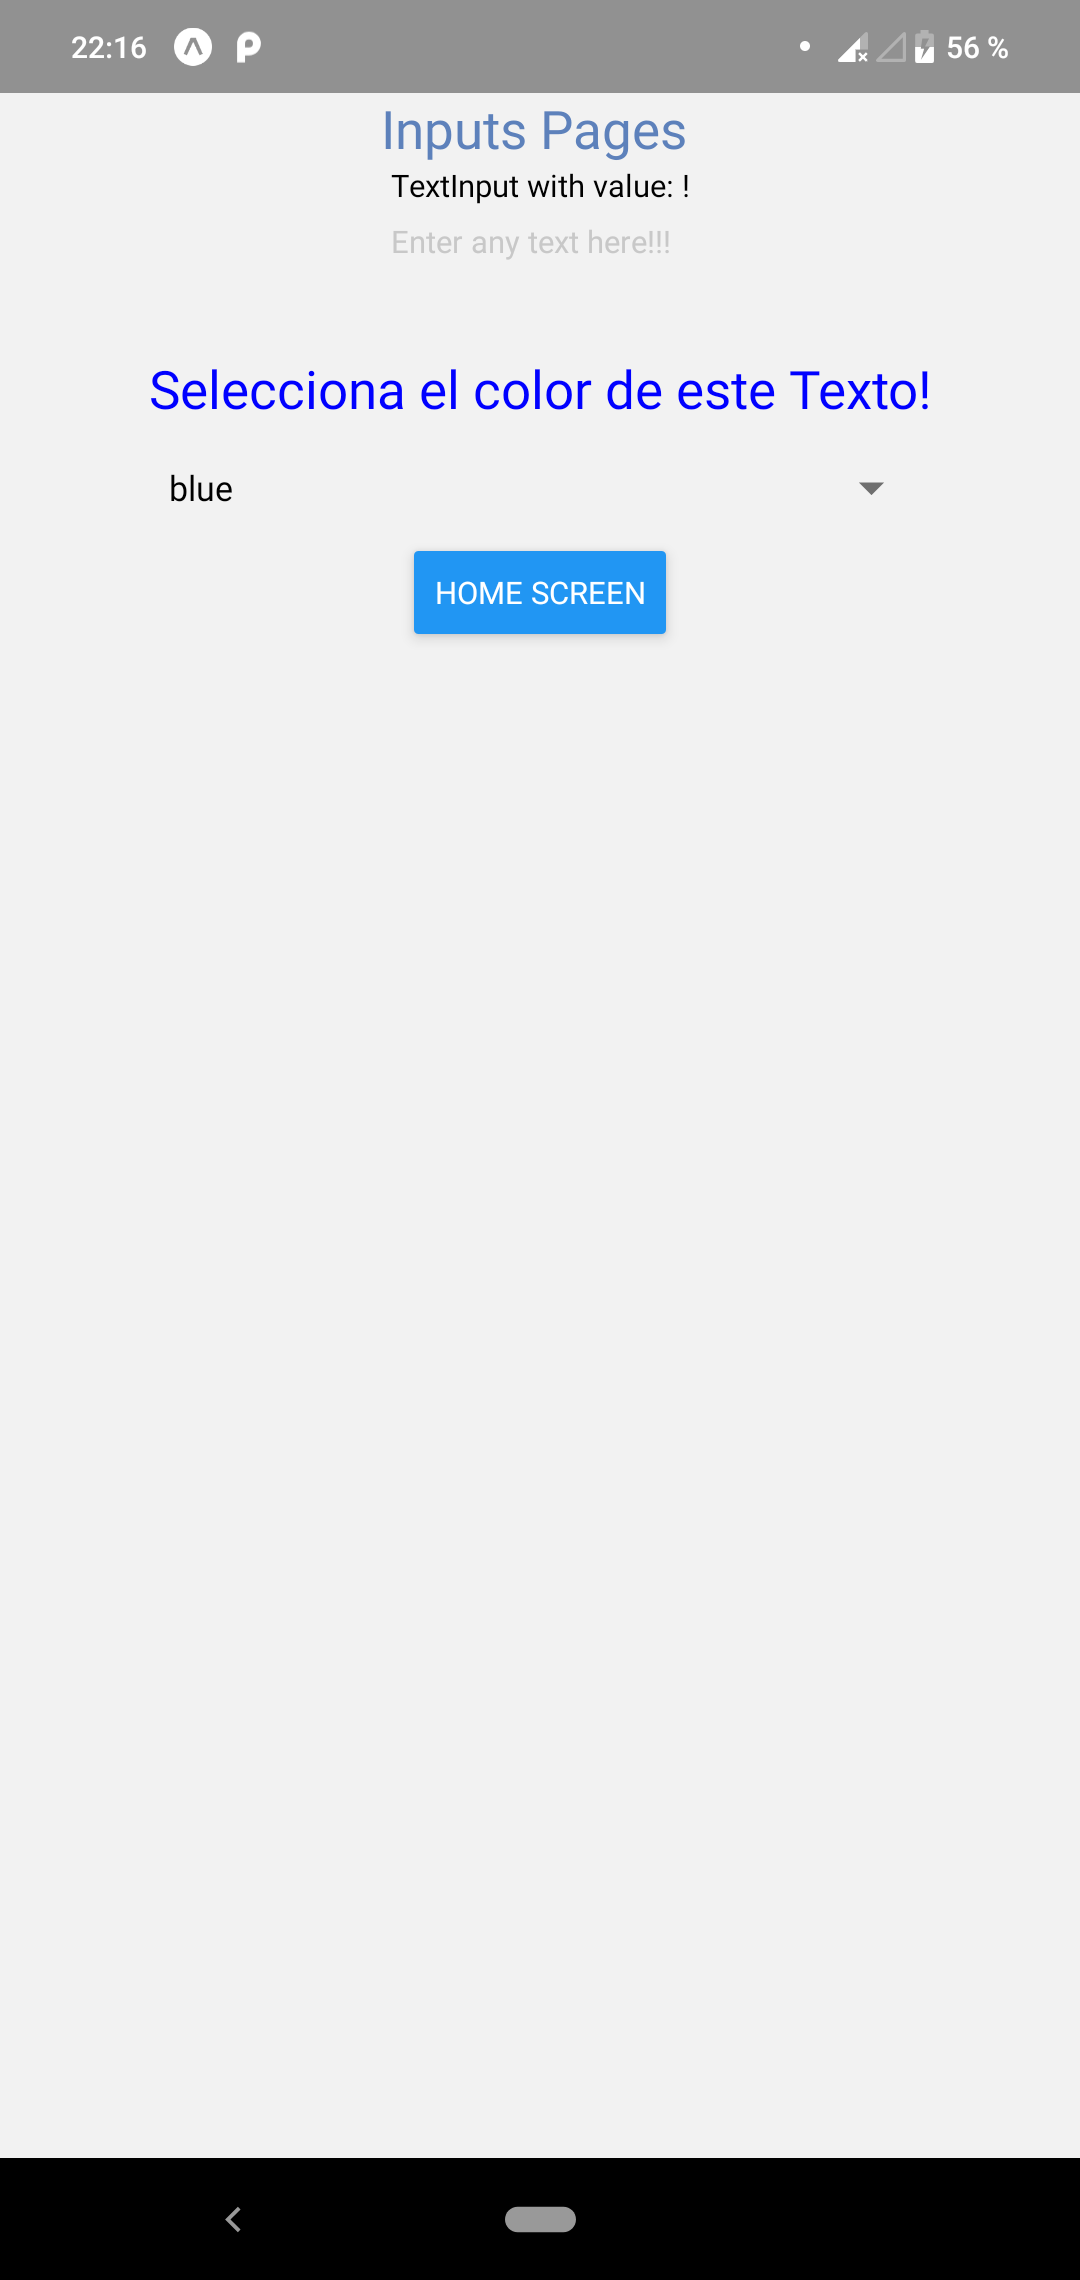
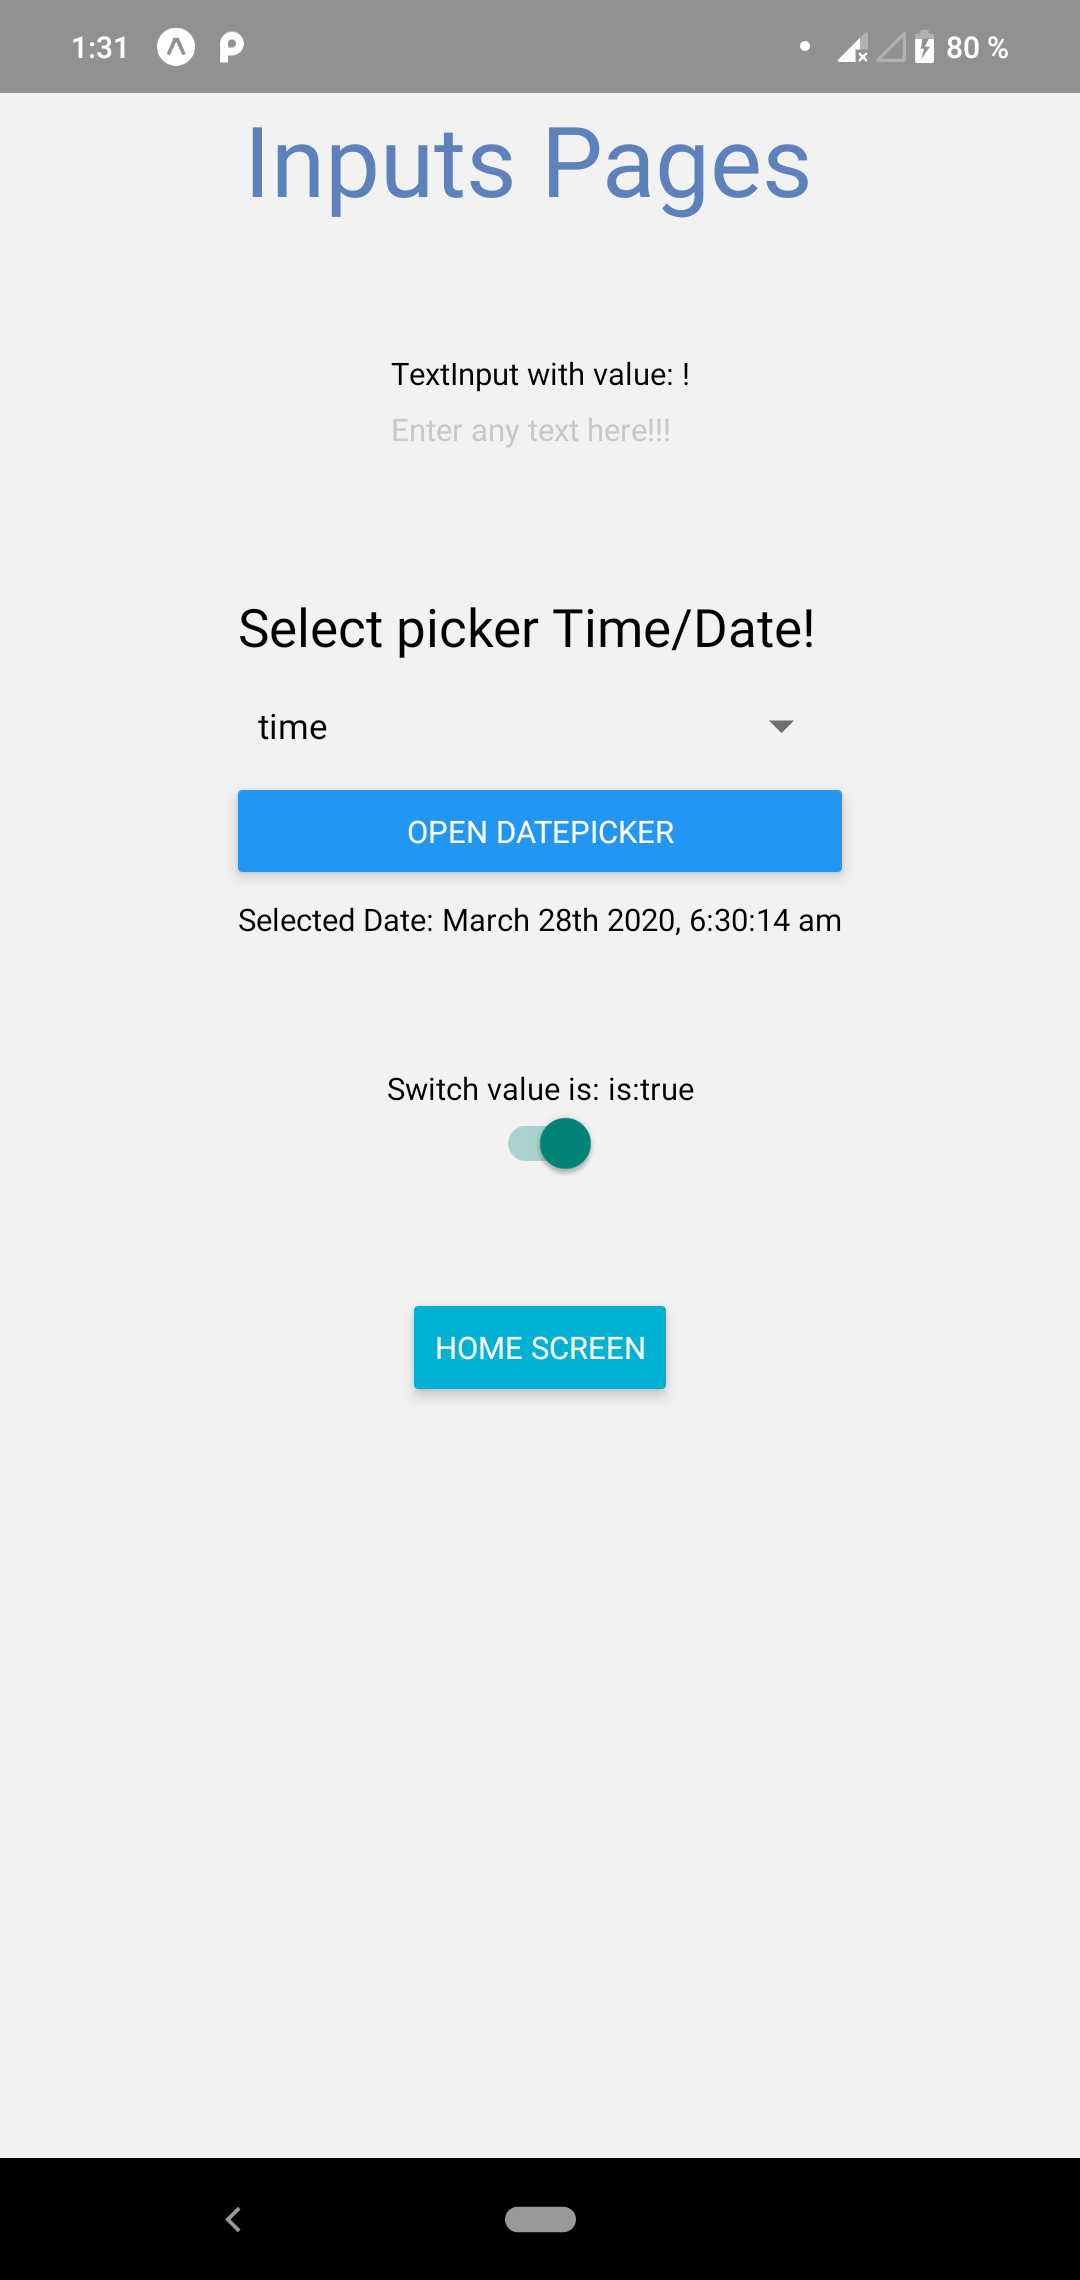
add date and time pickers

diff --git a/src/partials/PickersComponent.js b/src/partials/PickersComponent.js
@@ -1,20 +1,48 @@
 import React, { useState } from 'react'
-import { View, Text, Picker } from "react-native"
+import { View, Text, Picker, Button } from "react-native"
+import moment from 'moment'
 
-const avaliableColors = [
-    "red",
-    "green",
-    "blue"
+import DateTimePicker from '@react-native-community/datetimepicker'
+
+import Box from './Box'
+
+const modes = [
+    'date',
+    'time',
+    //'datetime',
+    //'countdown'
 ]
 
 const PickersComponent = () => {
-    const [textColor, changeColor] = useState("blue")
+    const [date, setDate] = useState(new Date());
+    const [show, setShow] = useState(false)
+    const [mode, setMode] = useState('date');
+
     return <View>
-        <Text style={{ color: textColor,fontSize:24.0 }}>Selecciona el color de este Texto!</Text>
-        <Picker selectedValue={textColor}
-            onValueChange={(c) => changeColor(c)}>
-            {avaliableColors.map((c, k) => <Picker.Item key={k} label={c} value={c} />)}
+        <Text style={{ fontSize: 24.0 }}>Select picker Time/Date!</Text>
+        <Picker selectedValue={mode}
+            onValueChange={(c) => setMode(c)}>
+            {modes.map((c, k) => <Picker.Item key={k} label={c} value={c} />)}
         </Picker>
+        <Button title="Open DatePicker" onPress={() => setShow(!show)} />
+        <Box height={10} />
+        {
+            show && <DateTimePicker
+                timeZoneOffsetInMinutes={0}
+                value={date}
+                mode={mode}
+                is24Hour={true}
+                display="default"
+                onChange={(val, sel) => {
+                    if (sel) {
+                        setDate(sel)
+                    }
+                    setShow(false)
+                }}
+            />
+        }
+        <Text>Selected Date: {moment(date).format("MMMM Do YYYY, h:mm:ss a")}</Text>
+
 
     </View>
 }

diff --git a/src/screens/InputsScreen.js b/src/screens/InputsScreen.js
@@ -13,15 +13,16 @@ import { Switch, } from 'react-native-gesture-handler'
 const InputsScreen = ({ navigation }) => {
     const [enabledButton, toggleButton] = useState(true)
     return <SafeArea style={GlobalStyles.notchSafeArea}>
-        <Text style={GlobalStyles.navTitle}>Inputs Pages </Text>
+        <Text style={GlobalStyles.title}>Inputs Pages </Text>
+        <Box height={50}/>
         <InputComponents />
-        <Box height={100}/>
+        <Box height={50}/>
         <PickersComponent />
-        <Box height={100}/>
+        <Box height={50}/>
         <Text>Switch value is: {"is:" + enabledButton}</Text>
         <Switch value={enabledButton} onValueChange={() => toggleButton(!enabledButton)} />
 
-        <Box height={100}/>
+        <Box height={50}/>
         <Button  color={enabledButton ? "#00b1d2":"gray"} onPress={() => { if (!enabledButton) return; navigation.navigate("Home") }} title="Home Screen" />
 
     </SafeArea>

diff --git a/src/utils/GlobalStyles.js b/src/utils/GlobalStyles.js
@@ -9,6 +9,10 @@ const GlobalStyles = StyleSheet.create({
     notchSafeArea: {
         paddingTop: Platform.OS === 'android' ? StatusBar.currentHeight : 0
     },
+    title:{
+        fontSize:45,
+        color:"#5d81bb"
+    },
     box: {
         flex: 1,
         width: 20.0

diff --git a/README.md b/README.md
@@ -21,6 +21,9 @@ no specific functionality is implemented, this repository is used to manage the 
   5. Lists Page
   <img src="https://raw.githubusercontent.com/esbgo97/learning_react_native/master/screenshots/navigation/lists_page.png" height="25%" width="25%" />
   
+  6. Date and Time pickers
+  <img src="https://raw.githubusercontent.com/esbgo97/learning_react_native/master/screenshots/navigation/timepicker.png" height="25%" width="25%" />
+  <img src="https://raw.githubusercontent.com/esbgo97/learning_react_native/master/screenshots/navigation/datepicker.png" height="25%" width="25%" />
 
 
 
